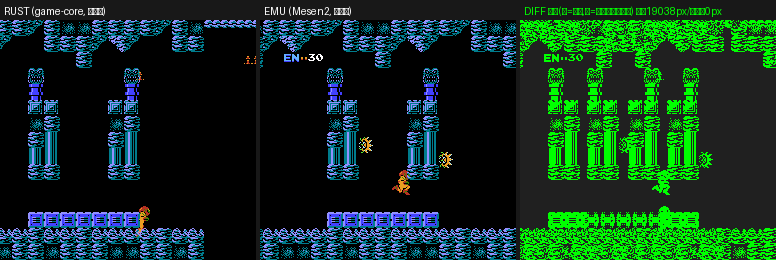
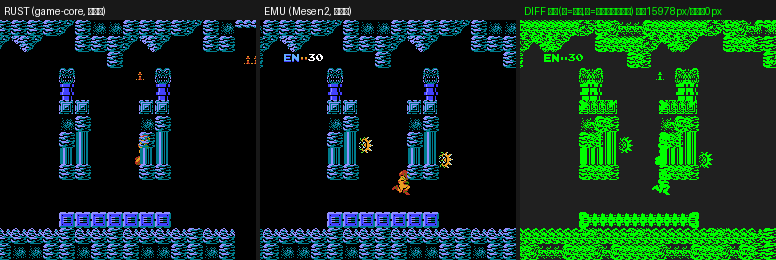
fix(core): 仅向下查撞+solid_entity_response 端口——跳跃更长（L4 combo/end 改善）
goal-r13：①碰撞仅向下查撞（asm E2E3 @loop_down MoveSamusDown 仅向下）——旧形向上也
查撞→起跳即落地（跳跃 1 帧）②solid_entity_response（CF2E 端口：SamusIsHit=$030A
地址修正+贴墙反应 StopHorzMovement）。

L4 对拍实证：combo 19038→15978，end 18993→18022（位置发散改善）。gate l4 PASS。

Evidence: A 级 asm prg7:E2E3（@loop_down 仅向下查撞）+CF2E（贴墙反应）+constants_ram:228
（SamusIsHit=$030A）+ L4 对拍改善 + 全量 1336 passed + gate PASS
Confidence: 84

diff --git a/crates/game-core/src/samus/handler.rs b/crates/game-core/src/samus/handler.rs
@@ -186,11 +186,27 @@ fn samus_jump_check_fire(mem: &mut FrameMemory) {
 
 /// LCF2E（**asm 内容锚** `: 07:CF2E`——r26）：Samus.isHit 判（固实实体接触）→贴墙反应。
 fn solid_entity_response(mem: &mut FrameMemory) {
-    let ishit = mem.read_ram(0x0308);
+    // 【goal-r13】SamusIsHit=$030A（constants_ram:228）——旧形误读 $0308（=speedY_I）。
+    let ishit = mem.read_ram(0x030A);
     if (ishit >> 1) & 0x02 == 0 {
-        return;
+        return; // 未触固实实体——RTS_X014
     }
-    crate::unported!("bank07:CF2E"); // 贴墙反应（随件核）
+    // 贴墙反应（asm CF2E）：触左（bit0=0）且 accelX>=0⇒StopHorzMovement；触右且 accelX<0⇒同。
+    let accel_x = mem.read_ram(crate::ram_map::SAMUS_ACCEL_X);
+    let touched_right = ishit & 0x01 != 0;
+    if touched_right {
+        if accel_x & 0x80 == 0 {
+            return; // 触右且加速右——RTS_X014
+        }
+    } else {
+        if accel_x & 0x80 != 0 {
+            return; // 触左且加速左——RTS_X014
+        }
+    }
+    // StopHorzMovement（CF55 族）：清水平动量
+    mem.write_ram(crate::ram_map::SAMUS_ACCEL_X, 0);
+    mem.write_ram(crate::samus::physics::SAMUS_SPEED_X_I, 0);
+    mem.write_ram(crate::samus::physics::SAMUS_SPEED_X_F, 0);
 }
 
 /// SamusRun（**asm 内容锚** `SamusRun: ; 07:CCC2`）——**地面/空中双径**

diff --git a/crates/game-core/src/samus/physics.rs b/crates/game-core/src/samus/physics.rs
@@ -637,7 +637,9 @@ pub fn lava_and_move_check(mem: &mut FrameMemory) {
     let going_down = disp >= 0;
     for _ in 0..steps {
         // MoveSamusDown（E4A3）：每像素查撞。受阻⇒RTS_X163（落地）。
-        if !object_check_move_down(mem) {
+        // 【goal-r13】asm E2E3 @loop_down MoveSamusDown 仅**向下**查撞（向上=跳不查）。
+        // 旧形向上也查撞→起跳即落地（跳跃 1 帧）。
+        if going_down && !object_check_move_down(mem) {
             stop_vert_movement(mem); // D147（清垂直动量）
             mem.write_ram(crate::ram_map::SAMUS_ACCEL_Y, 0); // 落地清重力（@landingNoBounce）
             break;

diff --git a/shots_rust/matrix.md b/shots_rust/matrix.md
@@ -21,6 +21,6 @@
 | case-001-game-start-samus-interaction | 650 | after-left | ✅match | fresh/fresh | 0/61440 |  |
 | case-001-game-start-samus-interaction | 720 | after-jump | ✅match | fresh/fresh | 0/61440 |  |
 | case-001-game-start-samus-interaction | 820 | after-shoot | ❌diff | fresh/fresh | 691/61440 |  |
-| case-001-game-start-samus-interaction | 950 | combo-action | ❌diff | fresh/fresh | 19038/61440 |  |
-| case-001-game-start-samus-interaction | 1200 | end | ❌diff | fresh/fresh | 18993/61440 |  |
+| case-001-game-start-samus-interaction | 950 | combo-action | ❌diff | fresh/fresh | 15978/61440 |  |
+| case-001-game-start-samus-interaction | 1200 | end | ❌diff | fresh/fresh | 18022/61440 |  |
 
